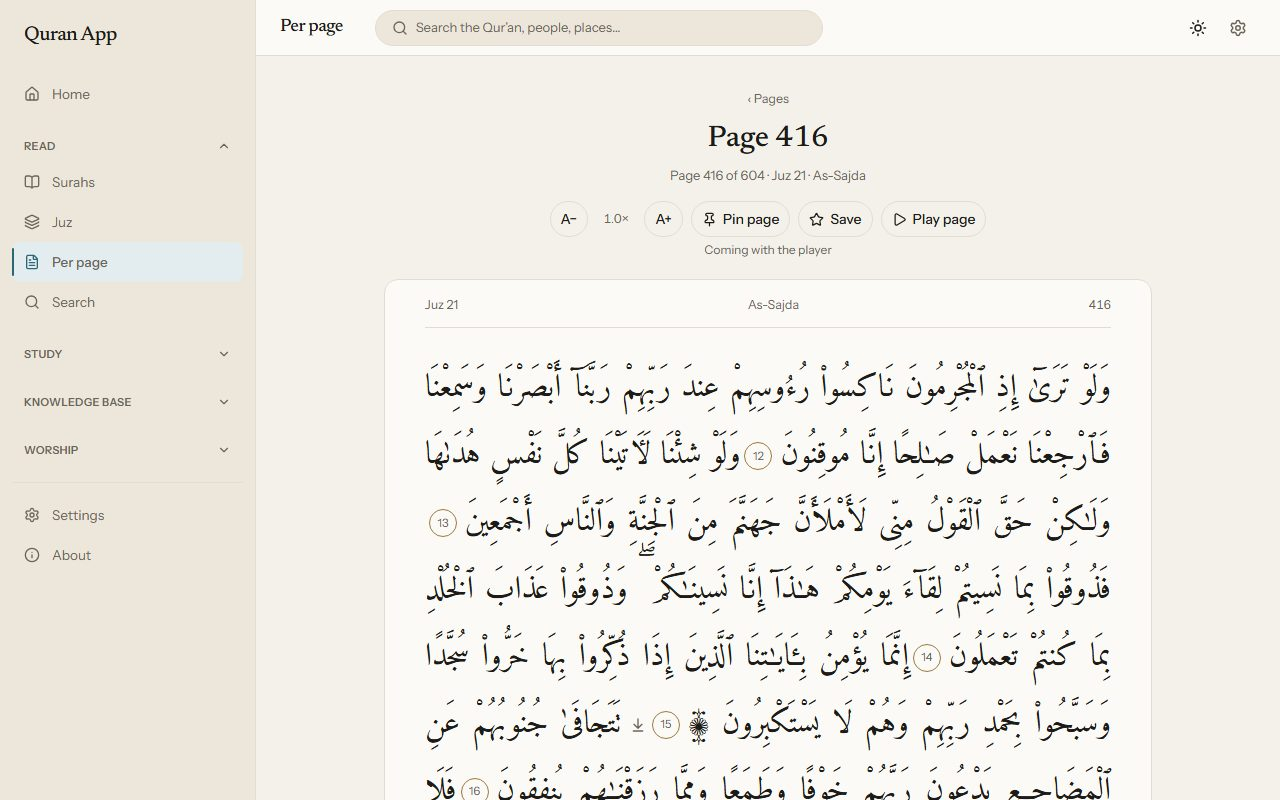
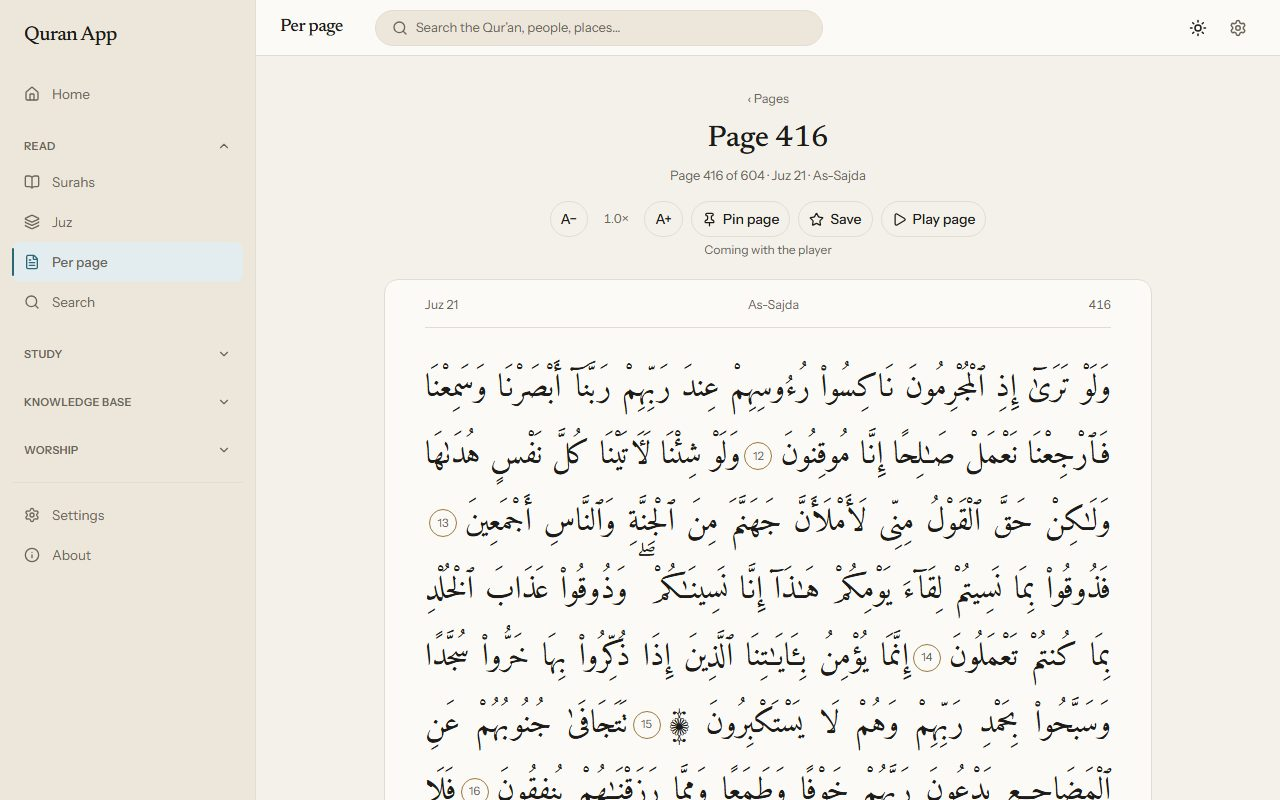
revamp(per-page): remove the duplicate sajda mark (the reader's text carries the sign), real-text tests; docs; Phase 4B plan

Changed region(s): [[0.3438, 0.875, 0.8125, 0.9375]]

diff --git a/revamp-quran/e2e/sajda.spec.ts b/revamp-quran/e2e/sajda.spec.ts
@@ -1,6 +1,8 @@
 // Phase 9B: the verses of prostration in a real browser, on the production build. The 15 references are bundled; the Arabic is the SYNTHETIC
 // mock ("TEST ARABIC 7:206"). Every unmocked request to a real API (including the service's own /sajda endpoint) fails the test; the clock is
 // fixed. See docs/phases/phase-09b-asma-sajda-tasbeeh.md.
+import fs from "node:fs";
+import path from "node:path";
 import { expect, test, type Page } from "@playwright/test";
 import { sajdaRows } from "../app/lib/sajda";
 import { forbidRealApis, freezeClock, idbNames, mockQuranText, mockVerse, readStorage, seed, type VerseMock } from "./mocks";
@@ -119,31 +121,42 @@ test.describe("the text on the device", () => {
   });
 });
 
-test.describe("the sign on the Per-page reader", () => {
-  test("every one of the 15 verses carries the sign on its own page, and only those ayahs do", async ({ page }) => {
-    test.setTimeout(120_000);
-    const byPage = new Map<number, typeof ROWS>();
-    for (const r of ROWS) byPage.set(r.page, [...(byPage.get(r.page) ?? []), r]);
-    for (const [p, list] of byPage) {
-      await page.goto(`/per-page-read?page=${p}`);
-      await expect(page.getByTestId("page-frame")).toBeVisible();
-      const signs = page.getByTestId("sajda-sign");
-      await expect(signs, `page ${p}`).toHaveCount(list.length);
-      for (const r of list) {
-        const s = page.locator(`[data-testid="sajda-sign"][data-surah="${r.surah}"][data-ayah="${r.ayah}"]`);
-        await expect(s, `${r.surah}:${r.ayah}`).toHaveCount(1);
-        await expect(s).toHaveAttribute("aria-label", "Prostration verse");
-        // the sign follows its own ayah's marker
-        await expect(s.locator("xpath=preceding-sibling::*[1]")).toHaveAttribute("data-ayah", String(r.ayah));
-      }
-    }
+test.describe("the sign is the text's own, shown once", () => {
+  // REAL text for surah 32 (a recorded response of the reader's source, tests/fixtures/quranapi-32.json); the other surahs stay synthetic.
+  const SIGN = String.fromCharCode(0x6e9);
+  const real = JSON.parse(fs.readFileSync(path.resolve(process.cwd(), "tests/fixtures/quranapi-32.json"), "utf8")) as { arabic1: string[] };
+  const count = (s: string) => s.split(SIGN).length - 1;
+
+  test("on the Per-page reader, the page that holds 32:15 shows the text's own sign exactly once and adds no mark of its own", async ({ page, context }) => {
+    await context.route(/quranapi\.pages\.dev\/api\/32\.json/, (r) => r.fulfill({ status: 200, contentType: "application/json", headers: { "access-control-allow-origin": "*" }, body: JSON.stringify(real) }));
+    const p = ROWS.find((r) => r.surah === 32 && r.ayah === 15)!.page;
+    await page.goto(`/per-page-read?page=${p}`);
+    await expect(page.getByTestId("page-frame")).toBeVisible();
+    await expect(page.getByTestId("page-text").first()).not.toContainText("TEST ARABIC"); // the real text, not the synthetic one
+    const all = (await page.getByTestId("page-text").allTextContents()).join("");
+    expect(count(all)).toBe(1);
+    // and it is inside ayah 15's text: the text before the marker numbered 15 holds it
+    const first = (await page.getByTestId("page-text").allTextContents()).find((t) => count(t) === 1)!;
+    expect(first.indexOf(SIGN)).toBeLessThan(first.indexOf("15"));
+    await expect(page.locator('[data-testid="verse-mark"][data-ayah="15"]')).toHaveCount(1);
+    await expect(page.locator('[data-testid="page-frame"] svg, [data-testid="page-frame"] [role="img"], [data-testid="sajda-sign"]')).toHaveCount(0); // nothing is added
   });
 
-  test("pages without a verse of prostration show no sign (page 1, 3 and 604)", async ({ page }) => {
+  test("on the Sajda list, 32:15 from the real text shows the sign once, and the row adds no mark", async ({ page, context }) => {
+    await context.route(/quranapi\.pages\.dev\/api\/32\/15\.json/, (r) =>
+      r.fulfill({ status: 200, contentType: "application/json", headers: { "access-control-allow-origin": "*" }, body: JSON.stringify({ ...real, arabic1: real.arabic1[14] }) }),
+    );
+    await open(page);
+    const text = (await row(page, 32, 15).getByTestId("sajda-text").textContent())!;
+    expect(count(text)).toBe(1);
+    await expect(row(page, 32, 15).locator('[role="img"], [data-testid="sajda-sign"]')).toHaveCount(0); // nothing is added to the text
+  });
+
+  test("pages without a verse of prostration have no sign and nothing added (page 1, 3 and 604, synthetic text)", async ({ page }) => {
     for (const p of [1, 3, 604]) {
       await page.goto(`/per-page-read?page=${p}`);
       await expect(page.getByTestId("page-frame")).toBeVisible();
-      await expect(page.getByTestId("sajda-sign")).toHaveCount(0);
+      expect(count((await page.getByTestId("page-text").allTextContents()).join(""))).toBe(0);
     }
   });
 });

diff --git a/revamp-quran/tests/sajda.test.ts b/revamp-quran/tests/sajda.test.ts
@@ -5,9 +5,8 @@ import path from "node:path";
 import { describe, expect, it } from "vitest";
 import { SURAH_ROWS } from "../app/data/quranMeta.generated";
 import { SAJDA_AYAHS } from "../app/data/sajda.generated";
-import { pageSegments } from "../app/lib/pageReader";
-import { AYAH_COUNTS, juzOfAyah, pageOfAyah, TOTAL_PAGES } from "../app/lib/quranMeta";
-import { isSajdaAyah, SAJDA_NO_TEXT, SAJDA_SIGN_LABEL, SAJDA_TEXT_FAILED, SAJDA_TITLE, sajdaCountLine, sajdaRows } from "../app/lib/sajda";
+import { AYAH_COUNTS, juzOfAyah, pageOfAyah } from "../app/lib/quranMeta";
+import { SAJDA_NO_TEXT, SAJDA_TEXT_FAILED, SAJDA_TITLE, sajdaCountLine, sajdaRows } from "../app/lib/sajda";
 import { sajdaBookmarkKey } from "../app/lib/bookmarks";
 
 const root = path.resolve(__dirname, "..");
@@ -49,28 +48,27 @@ describe("the bundled list against the recorded service response", () => {
   });
 });
 
-describe("the sign on the Per-page reader", () => {
-  it("isSajdaAyah is true for the 15 and false for their neighbours", () => {
-    for (const [s, a] of SAJDA_AYAHS) {
-      expect(isSajdaAyah(s, a)).toBe(true);
-      expect(isSajdaAyah(s, a + 1)).toBe(false);
-      if (a > 1) expect(isSajdaAyah(s, a - 1)).toBe(false);
-    }
-    expect(isSajdaAyah(1, 1)).toBe(false);
+describe("the sign: the reader's own text carries it, once, and the Per-page reader adds nothing", () => {
+  // REAL text: tests/fixtures/quranapi-32.json is a recorded response of the source the surah reader uses (surah 32, which holds 32:15).
+  // The prostration character is compared by code point (no Arabic is typed in code).
+  const SIGN = String.fromCharCode(0x6e9);
+  const chapter = JSON.parse(fs.readFileSync(path.join(root, "tests/fixtures/quranapi-32.json"), "utf8")) as { arabic1: string[]; totalAyah: number };
+  it("in the real text of surah 32 the sign is inside ayah 15 and only there, exactly once", () => {
+    expect(chapter.arabic1).toHaveLength(chapter.totalAyah);
+    const withSign = chapter.arabic1.map((t, i) => [i + 1, t.split(SIGN).length - 1] as const).filter(([, n]) => n > 0);
+    expect(withSign).toEqual([[15, 1]]);
+    expect(SAJDA_AYAHS.some(([s, a]) => s === 32 && a === 15)).toBe(true);
   });
-  it("across all 604 pages the sign belongs to exactly the 15 ayahs, each on exactly one page, and the page is the one the data says", () => {
-    const found: string[] = [];
-    for (let p = 1; p <= TOTAL_PAGES; p++) {
-      for (const g of pageSegments(p)!) for (let a = g.from; a <= g.to; a++) if (isSajdaAyah(g.surah, a)) found.push(`${g.surah}:${a}@${p}`);
-    }
-    expect(found).toEqual(sajdaRows().map((r) => `${r.surah}:${r.ayah}@${r.page}`));
+  it("the Per-page frame has no sign of its own (the text is the only source, so the two cannot disagree or double up)", () => {
+    const frame = fs.readFileSync(path.join(root, "app/components/perpage/Frame.vue"), "utf8");
+    expect(frame).not.toMatch(/sajda-sign|arrow-down-to-line|isSajdaAyah/);
   });
 });
 
 describe("no ruling is stated", () => {
   it("the page's words and the library's are plain: no obligatory, recommended, wajib, Hanafi, Ja'fari or marja'", () => {
     const words = /obligatory|recommended|wajib|fard|hanafi|ja.?fari|shafi|marja|scholar/i;
-    for (const s of [SAJDA_TITLE, sajdaCountLine(15), SAJDA_NO_TEXT, SAJDA_TEXT_FAILED, SAJDA_SIGN_LABEL]) expect(s).not.toMatch(words);
+    for (const s of [SAJDA_TITLE, sajdaCountLine(15), SAJDA_NO_TEXT, SAJDA_TEXT_FAILED]) expect(s).not.toMatch(words);
     const page = fs.readFileSync(path.join(root, "app/pages/sajda.vue"), "utf8");
     const template = page.slice(page.indexOf("<template>"));
     expect(template).not.toMatch(words);

diff --git a/revamp-quran/app/components/perpage/Frame.vue b/revamp-quran/app/components/perpage/Frame.vue
@@ -1,8 +1,6 @@
 <script setup lang="ts">
 // The framed text of one page (prototype `mp-frame`): a thin head, then each surah's run of ayahs as flowing, justified Arabic with the
-// reader's ayah markers (and a small sign after a verse of prostration, from the bundled list). A banner and the Bismillah appear only where a surah starts on the page. It is flowing text, not mushaf lines.
-import { isSajdaAyah, SAJDA_SIGN_LABEL } from "~/lib/sajda";
-
+// reader's ayah markers. A verse of prostration carries its own sign inside the text (the data holds it), so nothing is added here. A banner and the Bismillah appear only where a surah starts on the page. It is flowing text, not mushaf lines.
 export interface FrameSegment {
   surah: number;
   from: number;
@@ -41,7 +39,7 @@ defineProps<{
           </template>
         </template>
         <p class="ar page-text mt-4" lang="ar" dir="rtl" data-testid="page-text">
-          <template v-for="(t, i) in g.ayahs" :key="g.from + i">{{ t }}<span class="verse-mark" data-testid="verse-mark" :data-ayah="g.from + i"><span class="sr-only" lang="en" dir="ltr"> ayah </span>{{ g.from + i }}</span><span v-if="isSajdaAyah(g.surah, g.from + i)" class="sajda-sign" data-testid="sajda-sign" :data-surah="g.surah" :data-ayah="g.from + i" role="img" :aria-label="SAJDA_SIGN_LABEL"><Icon name="lucide:arrow-down-to-line" size="16" aria-hidden="true" /></span> </template>
+          <template v-for="(t, i) in g.ayahs" :key="g.from + i">{{ t }}<span class="verse-mark" data-testid="verse-mark" :data-ayah="g.from + i"><span class="sr-only" lang="en" dir="ltr"> ayah </span>{{ g.from + i }}</span> </template>
         </p>
       </section>
     </template>
@@ -52,12 +50,6 @@ defineProps<{
 .page-text {
   text-align: justify;
   overflow-wrap: break-word;
-}
-.sajda-sign {
-  display: inline-flex;
-  vertical-align: middle;
-  margin-inline: 2px 8px;
-  color: var(--ink-2);
 }
 .verse-mark {
   display: inline-flex;

diff --git a/revamp-quran/app/lib/sajda.ts b/revamp-quran/app/lib/sajda.ts
@@ -5,10 +5,6 @@ import { SURAH_ROWS } from "~/data/quranMeta.generated";
 import { SAJDA_AYAHS } from "~/data/sajda.generated";
 import { juzOfAyah, pageOfAyah } from "./quranMeta";
 
-const SET = new Set(SAJDA_AYAHS.map(([s, a]) => `${s}:${a}`));
-/** Whether the ayah is in the list: the Per-page reader marks these. */
-export const isSajdaAyah = (surah: number, ayah: number): boolean => SET.has(`${surah}:${ayah}`);
-
 export interface SajdaRow {
   n: number;
   surah: number;
@@ -35,4 +31,3 @@ export const SAJDA_TITLE = "Verses of prostration";
 export const sajdaCountLine = (n: number): string => `${n} verses, as listed by this app’s data.`;
 export const SAJDA_NO_TEXT = "Connect once to see the text.";
 export const SAJDA_TEXT_FAILED = "Couldn’t load the text.";
-export const SAJDA_SIGN_LABEL = "Prostration verse";

diff --git a/revamp-quran/docs/phases/phase-04b-plan.md b/revamp-quran/docs/phases/phase-04b-plan.md
@@ -1,0 +1,121 @@
+# Phase 4B plan: the full audio player
+
+Status: **plan only, waiting for approval. One input is missing: your phone audio test result** (the prompt had the placeholder `[paste the result here…]` unfilled). Everything below that does not depend on it is ready; the part that does is written as "if it plays / if it fails" so no result is assumed.
+
+Written 2026-10-21 after reading the legacy `useAudioPlayer.ts`, `useReciter.ts`, `useAudioDownload.ts`, the Phase 3 player (`stores/player.ts`, `MiniPlayer.vue`, `lib/surahAudio.ts`), `docs/audio-url-check.md`, `MODULE_BLUEPRINT.md` Module 4, the prototype's player overlay (`playerHTML`), the service worker rules in `nuxt.config.ts`, and live checks of the audio hosts.
+
+**Reviewed 2026-10-21.** Your decisions are applied below (they replace my first split): 4B is the whole-surah player, 4C is per-ayah audio in the reader (with the ayah queue); resume is a new feature shown as a line in the sheet, never automatic; Save audio stays visible but disabled with a reason until Phase 11; no offline-play claim; the audio cache names and the two storage keys stay exactly as they are. The phone audio test result is **still not supplied** (the placeholder was empty again), so section 1 stays conditional.
+
+**Baseline:** `npm run verify` on Node 22 passed on the last pushed commit (566 unit, 428 e2e, exit 0). A new run after the 9B follow-up (duplicate sign removed) is in progress and is reported with the 9B hand-back.
+
+## 1. Your audio test, and what I could check without a phone
+
+**What I checked from this machine today** (not a substitute for a phone):
+
+| Check | Result |
+| --- | --- |
+| Full-surah files (`github.com/The-Quran-Project/Quran-Audio-Chapters/raw/…` → `raw.githubusercontent.com`) | Redirect, then `200`/`206`, **`Content-Type: application/octet-stream` with `X-Content-Type-Options: nosniff`** for the 210 large files (surah 3 reciter 1: 74,406,621 bytes) |
+| Range requests on those files | `206 Partial Content` with `Content-Range`, `Accept-Ranges: bytes`, `Access-Control-Allow-Origin: *` (so seeking in a 74 MB file should work without downloading it) |
+| **Per-ayah audio exists** | Yes. `quranapi.pages.dev/api/<surah>/<ayah>.json` returns `audio` for all five reciters, with a `url` (`the-quran-project.github.io/Quran-Audio/Data/<reciter>/<surah>_<ayah>.mp3`) and an `originalUrl` (everyayah.com). Files are **`audio/mp3`**, small (146 KB for 1:1, 590 KB for 2:255), `206` on Range, CORS `*`. The reciter names are identical to the full-surah list for all five |
+| Desktop Chromium plays the generic-type files | Yes (2026-10-16, `docs/audio-url-check.md`) |
+
+**What is still unknown: iOS Safari, Firefox, and Chrome on Android with the generic-type files.** That is the test I need from you:
+
+1. On the phone preview open `/surah-listing`, press Play on **surah 1** (control: `audio/mpeg`), **surah 3** and **surah 18** (generic type, big), with two different reciters. Try it in Safari on iPhone and in Chrome (and Firefox if you use it) on Android.
+2. Report per browser: plays, does not play, plays but cannot be paused/resumed, or stalls (and for how long before the first sound).
+
+**How I will use the result, only for what actually fails:**
+
+- *Everything plays:* nothing to do; the player needs no workaround.
+- *A browser refuses the generic type* (the media element errors): options in order of cost: (a) a clear message on that browser ("This device cannot play this recording") and the surah's **per-ayah files** as the fallback source (`audio/mp3`, so the same player plays ayah after ayah: needs the queue of 4C); (b) nothing else I recommend: fetching 90 MB into a blob (memory) or proxying through our own server (the app has no backend, and a proxy for 90 MB files is a hosting cost and a new thing to run).
+- *It plays but takes too long to start* (a Range or buffering issue): `preload="metadata"` and a "Buffering…" state; no workaround for the host.
+
+## 2. The legacy player: what it does and omits
+
+`app/composables/useAudioPlayer.ts`: one `Audio` element in Nuxt state; `nowPlaying {type: surah|ayah|name, surahNo, title, subtitle}`; `playbackRate`, `repeatOne`, `autoAdvance` persisted in `quran:audio-prefs:v1`; the resume record `quran:audio-resume:v1` = `{ url, position, nowPlaying }`; Media Session metadata and handlers `play`, `pause`, `seekto`; time labels; `playNextInQueue` (next surah, same reciter, when `autoAdvance` and the track is a surah); `endedAt` for callers that drive their own queue.
+
+| Omits or is wrong | Notes |
+| --- | --- |
+| **The resume record is never used.** `hasResumable` and `resumeLast` exist but nothing in the legacy app calls them | So "resume" has never worked for a user; only the record is written |
+| The position is saved only on `pause` (not while playing, not on closing the tab) | A tab closed mid-playback loses the position |
+| `resumeLast` seeks right after `play()` | Before metadata has loaded the seek can be lost |
+| `play()` has no error handling | A failed file leaves `loading` true and an unhandled rejection; no message |
+| No Media Session `previoustrack`, `nexttrack`, `seekbackward`, `seekforward`, no `setPositionState` | Lock-screen scrubber cannot show position |
+| No buffering state, no seek UI (the legacy mini player has none either), repeat and auto-next have no UI except in Settings | |
+| The resume record stores a raw URL | The blueprint's rule is that reciter URLs resolve by **name** per surah; the URL is only valid for that surah |
+| The per-ayah `type: "ayah"` exists but only Duas/Hifz callers use it with a single URL | |
+
+## 3. What the revamp has today (Phase 3)
+
+`stores/player.ts`: `playSurah({surahNo, title, reciter, rate})`, `pause`, `toggle`; one `Audio` element; `PLAY_ERROR` ("Couldn’t play. Audio needs a connection unless it was downloaded."); `MiniPlayer.vue`: a fixed bar with title, status and a play/pause button, shown once something has been started; reciter URL resolved by name (`lib/surahAudio.ts`); `playbackRate` (and `autoplay` = the legacy `autoAdvance`) are Settings values in `quran:audio-prefs:v1`.
+
+## 4. Scope and the split (decided)
+
+- **4B: the whole-surah player.** One full-surah file at a time: the sheet, seeking, speed, repeat, auto-next surah, resume, reciter switching, Media Session, states and errors.
+- **4C: per-ayah audio.** The play button in the reader's tools row (per-ayah files, which exist), single-file clips such as the Asma-ul-Husna names, and the ayah queue that **Play page** (Per-page), **Listen to this chapter** (Stories) and Hifz need. It is also the per-ayah fallback if your test shows a browser refuses the big files.
+
+## 5. 4B features
+
+- **Seeking:** a labelled slider in the sheet (`aria-label` "Position", `aria-valuetext` "12:34 of 77:08", step 5 s, commits on release/key like the page slider), time labels, and 10-second back and forward buttons. A thin progress line in the mini player (no seeking there). Range requests are supported by the hosts, so seeking a 74 MB file does not download it; the slider is disabled until metadata has loaded.
+- **Speed:** the same `playbackRate` value as Settings (clamped 0.5 to 3, as stored), chips 0.75, 1, 1.25, 1.5, 2 in the sheet; a stored value outside the chips shows as a selected "custom" chip. Writes `quran:audio-prefs:v1` keeping `repeatOne` and unknown fields.
+- **Repeat:** "Repeat this recitation" (the legacy `repeatOne`, in the same key), loops the current track.
+- **Auto-next:** the existing `autoplay` pref (legacy `autoAdvance`): when a full surah ends, the next surah by the same reciter starts (the legacy rule: `type: surah`, up to 114). The switch in the sheet is the same setting as in Settings. Off by default; **nothing ever starts on page load.**
+- **Resume (new; the legacy never used its record):** `quran:audio-resume:v1` in the legacy shape (`url`, `position`, `nowPlaying`, plus an additive `nowPlaying.reciter`). Start small: written when playback is paused or stopped and on `pagehide`, and (optional, decision 8) every 5 seconds while playing. The sheet shows one line, **"Resume where you stopped · Al-Baqara · 12:34"**, with a button; pressing it plays from that point (by surah and reciter name, not the stored URL; the seek happens only after metadata has loaded). Nothing is automatic and nothing plays on page load. *Open question 3 below: the sheet needs an opener when nothing has been played in this visit.*
+- **Previous and Next:** previous or next **surah** (disabled at 1 and 114). Per-ayah audio, the reader's per-ayah play button and the Asma names are **4C**.
+- **Reciter switching:** the sheet's reciter menu (the five reciters); switching restarts the same surah (or ayah) with the new reciter **from the beginning**, because two reciters' files have different timing so a position does not carry over. It also sets the preferred reciter, as the reader's menu already does.
+- **Player sheet:** the prototype's overlay as a bottom sheet on phones and a side panel on desktop (the same `Sheet` the other pages use): Now playing, title and reciter, position slider and times, Previous / Play-Pause / Next, 10 s back and forward, Speed, Reciter, Repeat, "Play the next surah automatically", and a Close button. Opened by tapping the mini player's title (the prototype's `player-open`).
+- **Save audio to device:** the prototype's button is shown in the sheet as a visible, real button with `aria-disabled` and the reason "Saving audio arrives with Downloads" (Phase 11 owns it; the legacy helper fetches the whole file into memory as a blob, a bad idea for 90 MB files on a phone). The sheet and the app make **no claim that audio plays offline**.
+- **Media Session:** metadata (title, artist = reciter, album "Quran App"), `playbackState`, handlers `play`, `pause`, `seekto`, `seekbackward`, `seekforward` (10 s), `previoustrack` and `nexttrack` where Previous and Next apply, and `setPositionState` at most once per second. Whether the lock screen shows them is a device check, not something I can test in a browser.
+
+## 6. Placeholders and which stay disabled
+
+| Placeholder today | 4B |
+| --- | --- |
+| Surah listing and reader "Play surah" (real since Phase 3) | Stay; they open the same player |
+| Reader per-ayah play slot | Stays reserved until **4C** |
+| Asma-ul-Husna "Play" (disabled, "Coming with the player") | Stays disabled until **4C** (a single-file clip, not a surah) |
+| Per-Page "Play page" (disabled) | Stays disabled until **4C** (an ordered list of ayahs) |
+| Stories "Listen to this chapter" (disabled) | Stays disabled until **4C** (passages across surahs) |
+| Hifz | Not rebuilt yet (its own phase) |
+| Sheet "Save audio" | New, visible and disabled with its reason until Phase 11 |
+
+The four disabled Play buttons keep their existing wording ("Coming with the player"); once 4B ships that phrase is no longer true for the whole-surah player, so their reasons are updated to say what is actually missing ("Playing single ayahs arrives soon", wording of ours, flagged).
+
+## 7. Offline
+
+- The service worker already caches audio with `CacheFirst` in `quran-audio-cache` (**the name must stay identical**, 300 entries, 1 year), but only `200` responses are cached, and a media element asks with a `Range` header and gets `206`, which the Cache API cannot store. **So streamed audio is not available offline today, and nothing in 4B changes that.** Serving a cached full file to range requests needs the Workbox range-request plugin and a whole-file fetch: that belongs to Downloads (Phase 11), together with the large-file and storage decisions there.
+- States when audio cannot play: **Loading** ("Loading…"), **Buffering** ("Buffering…", from `waiting`/`stalled`), **Needs a connection** (offline: "Audio needs a connection unless it was downloaded."), **Could not play** (the media element's own error; message plus Try again), **This device cannot play this recording** (only if your test shows a browser refuses the file type), **Not allowed** (a browser blocking `play()` that was not started by a tap, shown as "Tap Play to start").
+- With no connection and a resume record, the mini player still shows the paused item; Play then shows the offline message instead of failing silently.
+
+## 8. Keyboard, screen reader, touch
+
+Native buttons and a native range input; Space and Enter on Play/Pause; arrow keys on the slider; no global or single-key shortcuts (as on the page reader); the sheet traps focus and returns it to the mini player's title; the mini player is a `region` "Audio player"; the status line is a polite live region ("Playing Al-Baqara", "Buffering…", errors); all controls at least 44px; `prefers-reduced-motion` has no animation here anyway. **No autoplay:** nothing plays until a tap or press; a resume only shows the paused item.
+
+## 9. Storage (additive, legacy-compatible)
+
+`quran:audio-prefs:v1` `{ playbackRate, repeatOne, autoAdvance }` (unknown fields kept; `repeatOne` is new to the revamp's UI but already in the legacy key) and `quran:audio-resume:v1` `{ url, position, nowPlaying }` (legacy shape, plus the additive `nowPlaying.reciter`). No new key, no new IndexedDB store, `quran-app-db` never opened.
+
+## 10. Tests
+
+- **Unit** (a fake audio element, no browser): the state machine (loading, playing, paused, buffering, ended, error), repeat, auto-next stopping at 114, the resume writer (throttled, on pause, on pagehide) and reader, resume by name not URL, seek only after metadata, speed and prefs writes keeping unknown fields, Previous/Next (surah) rules, the Media Session handler wiring against a stub, and legacy-shape fixtures through every write.
+- **Browser** (the existing `stubAudio` recorder; no real audio): the mini player and sheet open and close, focus returns, slider and buttons call the element, speed/repeat/auto-next write the keys, the resume line and the opener (decision 3) play only on a tap (and never on load), reciter switch restarts from 0, the four disabled Play buttons and Save audio stay inert with their reasons, error and offline states, 375px, dark mode, 44px targets, no `quran-app-db`.
+- **Real playback, lock-screen controls and the generic-type files can only be checked on a device.** That is your test; I cannot do it.
+
+## 11. Screenshots
+
+1280 and 375, light and dark: the mini player (playing, paused at a resume point, loading, error), the sheet (surah playing, the resume line, first and last surah with disabled Previous/Next, custom speed, Save audio disabled). The prototype overlay beside the revamp sheet.
+
+## 12. Decisions: your answers applied, and my recommendations on the rest
+
+Decided by you: (1) split 4B whole-surah / 4C per-ayah; (2) resume is new, a sheet line, never automatic, never autoplay on load; (3) Save audio disabled with a reason until Phase 11, no offline claim; (4) the audio cache names and `quran:audio-prefs:v1` / `quran:audio-resume:v1` keep their formats exactly.
+
+Open, with my recommendation:
+
+1. **Your phone audio test result.** Still missing. Until it arrives I add no workaround for the generic-type files, as you said; if it does not play somewhere, the plan above lists what to do for that case only.
+2. **Asma-ul-Husna Play and the reader's per-ayah play stay disabled in 4B** (they are 4C), with their reason text updated. Recommended.
+3. **How the sheet is reached after a reload (the one thing your resume answer leaves open).** The mini player exists only once something has played in this visit, so a "Resume where you stopped" line in the sheet has no door. Recommended: when a resume record exists, show the mini player **paused** on the next visit (title, "Paused at 12:34", a Play button), with the sheet behind it; nothing plays until a tap. The alternative is a "Continue listening" row on Home or the Library that opens the sheet. Say which.
+4. **Previous / Next = previous / next surah** (disabled at the ends). Recommended.
+5. **Reciter switch restarts the surah from the beginning** (reciters' files have different timing). Recommended.
+6. **10-second back and forward buttons and the Media Session seek actions.** Recommended.
+7. **The disabled Play buttons' new wording** ("Playing single ayahs arrives soon"): approve, or give your wording.
+8. **Position written while playing (every 5 s)** as well as on pause and `pagehide`, or only on pause as the legacy. Recommended: both (a tab closed while playing otherwise loses the place).

diff --git a/revamp-quran/docs/phases/phase-09b-asma-sajda-tasbeeh.md b/revamp-quran/docs/phases/phase-09b-asma-sajda-tasbeeh.md
@@ -16,7 +16,7 @@
 6. Legacy goals 33 / 99 / 100 and the unnamed custom counter.
 7. The YouTube embed is dropped, with no replacement link.
 8. Vibration with a switch next to the counter, on by default where supported, never while Reduce motion is on.
-9. The sajda sign on the Per-page reader is built as an SVG mark, with a test on the right ayahs (**see the finding below: the text already carries the sign**).
+9. ~~The sajda sign on the Per-page reader as an SVG mark~~ **Changed after review (2026-10-21): the visible SVG mark was removed.** The reader's own text already carries the sign inside exactly the 15 ayahs, so the Per-page reader adds nothing. A test with REAL cached text (surah 32, `tests/fixtures/quranapi-32.json`) confirms the sign appears exactly once on the page that holds 32:15 and in the Sajda row, and that nothing is added.
 Holds: `names.json` imported; only apostrophe typography normalised; the mixed apostrophes and the repeated meanings listed for review; tests for English-text contrast and the search label; a saved `name:<n>` shows in the Library's Names filter; the counter is a real button with a polite count, Space and Enter, and Reset with Undo; the legacy lifetime and cycle shapes tested through each operation with a legacy-shaped fixture.
 
 ## What was built
@@ -28,7 +28,7 @@ Holds: `names.json` imported; only apostrophe typography normalised; the mixed a
 
 ## Findings (please read)
 
-- **The reader's own Arabic already carries the sajda sign.** The `quranapi` text (`arabic1`, the surah reader's source) contains the prostration character (U+06E9) inside exactly these 15 ayahs and in no other ayah of those 14 surahs (checked against the live data today). So the Sajda list, the surah reader and the Per-page reader already show the sign as part of the text, and **the SVG mark built under decision 9 is a second sign next to it** (visible in `docs/design/utilities-compare/state-perpage-sajda-sign-desktop-light.jpg`: the text's own sign, then the ayah marker, then my arrow). The synthetic text in the browser tests has no such character, so the tests could not show this; the real-text screenshots did. This also independently confirms the bundled list of 15. **Recommendation: remove the visible SVG mark** (keep, at most, a screen-reader label), because the text is the better source and the duplicate looks wrong. It is a one-line change in `components/perpage/Frame.vue` plus the e2e test; I left it as approved so you can decide. (The earlier 9A note "the cached surah text has no sajda sign" was about a missing data field; the sign is in the text itself.)
+- **The reader's own Arabic already carries the sajda sign.** The `quranapi` text (`arabic1`, the surah reader's source) contains the prostration character (U+06E9) inside exactly these 15 ayahs and in no other ayah of those 14 surahs (checked against the live data today). So the Sajda list, the surah reader and the Per-page reader already show the sign as part of the text, and **the SVG mark built under decision 9 is a second sign next to it** (it showed in the real-text screenshot as the text's own sign, the ayah marker, then my arrow; the screenshot is regenerated and now shows one sign). The synthetic text in the browser tests has no such character, so the tests could not show this; the real-text screenshots did. This also independently confirms the bundled list of 15. **Resolved on review: the visible SVG mark was removed** (and the label, the helper and their tests), so there is one source of the sign. If the text's own sign ever shows as an empty box on a device, that is a font fix, not a second mark. (The earlier 9A note "the cached surah text has no sajda sign" was about a missing data field; the sign is in the text itself.)
 - **The Sajda service's flags are a ruling.** 4 of 15 are flagged `obligatory` (32:15, 41:38, 53:62, 96:19: exactly the Ja'fari set), 11 `recommended`; the legacy page showed these to everyone. Not carried over (decision 3); recorded in CONTENT_TO_VERIFY.md.
 - **The legacy composable is the test oracle for Tasbeeh.** `tests/tasbeeh.test.ts` loads the real `useTasbeeh.ts` (transpiled in memory) and applies the same 12 operations plus 100 counts to both implementations on a legacy-shaped record that includes a `name-12` counter, an unknown field and an unknown counter; the stored records are equal after every step. The legacy code also accepts and preserves the `name-<n>` counters (and its counter page would show one as a counter named by its id), so a rollback is safe.
 - **A request to `quranapi.pages.dev` from a script needs a browser-style User-Agent** (a bare Python request got HTTP 403). Browsers are unaffected; noted only for anyone scripting the data.
@@ -49,14 +49,18 @@ After prayer (both traditions), any obligation statement, the Hanafi count and n
 
 ## Verification
 
-`npm run verify` on Node 22 (build, lint, 566 unit tests, dev smoke, 428 e2e tests): **passed, exit 0**. The Settings picker test did not fail. Along the way, failed-then-fixed runs were all in new tests (a search term, a hash-opened sheet hiding the page behind a modal, an offline navigation that needs the page code already loaded, a reduced-motion duration); none was a defect in a page.
+`npm run verify` on Node 22 (build, lint, 566 unit tests, dev smoke, 428 e2e tests; 429 after the review change below): **passed, exit 0**. The Settings picker test did not fail. Along the way, failed-then-fixed runs were all in new tests (a search term, a hash-opened sheet hiding the page behind a modal, an offline navigation that needs the page code already loaded, a reduced-motion duration); none was a defect in a page.
 
-- `tests/asma.test.ts` (12), `tests/sajda.test.ts` (9), `tests/tasbeeh.test.ts` (17, including the legacy-code differential).
-- `e2e/asma.spec.ts` (10), `e2e/sajda.spec.ts` (11), `e2e/tasbeeh.spec.ts` (16). Existing tests updated: the Library's name type is "opens today", its pending notice no longer names Asma-ul-Husna, a new Per-page test for the sign.
+- `tests/asma.test.ts` (12), `tests/sajda.test.ts` (9), `tests/tasbeeh.test.ts` (17, including the legacy-code differential; keep it in the suite: it is the strongest rollback guarantee).
+- `e2e/asma.spec.ts` (10), `e2e/sajda.spec.ts` (12), `e2e/tasbeeh.spec.ts` (16). Existing tests updated: the Library's name type is "opens today", its pending notice no longer names Asma-ul-Husna, a new Per-page test for the sign.
 
 ## What is left for you
 
-- Decide the duplicate sign (remove the visible SVG mark: recommended).
 - Review `CONTENT_TO_VERIFY.md` (Tasbeeh, Sajda, Asma sections): the dhikr, the list of 15, the 99 names, the wording of ours.
 - Supply sourced wording if you want obligation statements or After prayer later.
 - Phone checks (counter by touch and vibration on a real device, 375px dark on all three pages, the name sheet) and the still-pending audio and compass checks. Phase 4B (the full player) is the next step that does not wait on content; it depends on your audio test.
+
+## After review (2026-10-21)
+
+- Removed the visible sajda mark from `components/perpage/Frame.vue`, `isSajdaAyah` and `SAJDA_SIGN_LABEL` from `lib/sajda.ts`, and the old sign tests. Added real-text tests: the unit test checks the recorded real surah 32 holds the sign exactly once (in ayah 15) and that the frame has no sign of its own; two browser tests use that real text on the Per-page reader and on the Sajda list. `npm run verify` on Node 22 after these changes (build, lint, 566 unit tests, dev smoke, 429 e2e tests): **passed, exit 0**.
+- The Sajda page stays as the list of the 15. The Asma data points stay as they are (to be corrected, if wanted, in the legacy `names.json` once at cutover, not in the revamp).

diff --git a/revamp-quran/docs/PROGRESS.md b/revamp-quran/docs/PROGRESS.md
@@ -9,7 +9,7 @@ Update this file at the end of every phase.
 | 2 | Settings | Approved 2026-10-16 | [phase-02-settings](phases/phase-02-settings.md), [plan](phases/phase-02-settings-plan.md) | [settings](pages/settings.md) |
 | 3 | Surah listing, Juz, Page | **Done, awaiting review** (2026-10-16) | [phase-03-surah-listing](phases/phase-03-surah-listing.md), [plan](phases/phase-03-surah-listing-plan.md) | [surah-listing](pages/surah-listing.md) |
 | 4A | Surah reader | **Done, awaiting review** (2026-10-16) | [phase-04a-surah-reader](phases/phase-04a-surah-reader.md), [plan](phases/phase-04a-surah-reader-plan.md) | [surah-reader](pages/surah-reader.md) |
-| 4B | Full player (seeking, resume, repeat, auto-next, per-ayah audio, player sheet) | Not started (split from Phase 4, see the 4A plan) | | |
+| 4B | Full player (seeking, resume, repeat, auto-next, per-ayah audio, player sheet) | Plan written 2026-10-21, waiting for the phone audio test result and approval (proposes 4B single track + 4C ayah queue) | [plan](phases/phase-04b-plan.md) | |
 | 5 | Prayer and Qibla | **Done, awaiting review** (2026-10-16) | [phase-05-prayer-qibla](phases/phase-05-prayer-qibla.md), [plan](phases/phase-05-prayer-qibla-plan.md) | [prayer-qibla](pages/prayer-qibla.md) |
 | 6 | Library | **Done, awaiting review** (2026-10-16) | [phase-06-library](phases/phase-06-library.md), [plan](phases/phase-06-library-plan.md) | [library](pages/library.md) |
 | 7A | Prophets & People: directory, Timeline, person page | **Done, awaiting review** (2026-10-20; 277 browser tests; the three relationship entries are a pending decision, see the phase doc) | [phase-07a-people](phases/phase-07a-people.md), [plan](phases/phase-07a-people-plan.md) | [people](pages/people.md), [person](pages/person.md) |
@@ -47,7 +47,7 @@ Update this file at the end of every phase.
 | 3 (done) | The listing uses the reciter preference (by name), the playback speed, the legacy bookmark keys and the reading-progress record; see the phase doc |
 | 4B | The image share card is its own later phase (no prototype screen; plain share is in the reader and on Home); extend `usePlayerStore` (seeking, `quran:audio-resume:v1`, repeat, auto-next from `prefs.autoplay`, per-ayah audio, Media Session); (the surah and juz flags were flipped in 4A; the reader now writes `quran:read-surahs:v1`, which the listing draws); per-ayah play and download go into the tools row of `components/reader/AyahList.vue`; **check the 210 generic-type audio files on real phones first** (`docs/audio-url-check.md`); the reader uses `verseLayout`, `effectiveTranslationLang` (explicit choice, else the legacy reader's text tab) and the tafsir default; playback speed and auto-play are in `prefs` |
 | 15 | Reading goals reads the `dailyLog` the reader writes: since 4A an ayah counts after about 1.5 s on screen (the legacy reader logged only the ayah a pause landed on). **Approved:** goal counts read higher than in the legacy app (about 60% higher for a careful reader in the simulation), so **pace targets may need recalibrating** here. Counts recorded before and after cutover use different rules and are **not merged or converted**; the new rule applies from cutover |
-| 9B (done) | The sajda sign on the Per-page reader is built (an SVG mark on the 15 bundled ayahs). The Library's Names and Sajda verses types open today |
+| 9B (done) | The sajda sign on the Per-page reader is the text's own (the data carries it inside the 15 ayahs); no extra mark. The Library's Names and Sajda verses types open today |
 | 9 (done in 9A) | The Page flag and the listing's "not rebuilt yet" notice are removed (`READERS_READY` is `{ surah, juz }`); the Library's Page slot is filled by Pin page and opens the reader |
 | 5 (done) | The Prayer and Qibla pages, the city entry and the saved-times row (shared with Settings) are built; the Hijri adjustment is applied on the Prayer page (reading the neighbouring cached day) and is still to be consumed by the Ramadan and Calendar pages. **WMM2025 (the declination model) is valid to 2030: replace the coefficients (`scripts/gen-wmm.mjs`, NOAA's next model) before then** |
 | 7 (done in 7B) | Home's second resume row and the Library's Story slot now show whichever is newer: `quran:story-progress:v1` or `quran:persons-study:v1` (one adapter in `useHomeState`) |

diff --git a/revamp-quran/docs/CONTENT_TO_VERIFY.md b/revamp-quran/docs/CONTENT_TO_VERIFY.md
@@ -133,7 +133,7 @@ Everything below appears in `prototype.html` as a placeholder or was typed from 
 - [ ] **Left out (deliberate): any statement of obligation.** The service flags 4 of the 15 (32:15, 41:38, 53:62, 96:19) as `obligatory` and 11 as `recommended`; the legacy page showed those to everyone as red and blue labels. The four are the set the Ja'fari school treats as obligatory, so showing them to all users is a ruling. They are not shown, and nothing says "obligatory", "recommended", "wajib", "Hanafi" or "Ja'fari". Also left out: the Hanafi count of 14 and its note, and the per-tradition explanatory sentences. To add them, supply wording and a source.
 - [ ] **The list itself:** "15 verses, as listed by this app's data." The set of 15 follows one common list (it includes 38:24 and both 22:18 and 22:77); schools differ (the exact verse in Ha-Mim Sajda, the second sajda of Al-Hajj, 38:24). Confirm that you want this list.
 - [ ] Wording of ours: "Verses of prostration", "Connect once to see the text.", "Couldn’t load the text.", "Open in the reader", the sign's label "Prostration verse" (Per-page reader).
-- [ ] **Decide:** the reader's own Arabic already contains the prostration sign inside exactly these 15 ayahs (checked 2026-10-21, which also confirms the list), so the SVG mark built on the Per-page reader duplicates it. Recommended: remove the visible mark. The mark is a small SVG mark (the legacy page printed the prostration character, which the no-typed-Arabic guard forbids in code); a test checks it appears on exactly the 15 ayahs.
+- [x] The sign on the Per-page reader is the text's own: the reader's Arabic contains the prostration sign inside exactly these 15 ayahs (checked 2026-10-21, which also confirms the list), so no second mark is added (the SVG mark built first was removed on review). A test with real surah 32 text confirms it appears once.
 
 **Asma-ul-Husna (Phase 9B)**
 - [x] The prototype's 99 names are not used. The names are the legacy `names.json` (imported, never copied): Arabic, Urdu, transliteration, English, in the legacy order and numbering.

diff --git a/revamp-quran/docs/pages/sajda.md b/revamp-quran/docs/pages/sajda.md
@@ -32,8 +32,7 @@ The Arabic loads one ayah at a time (the same source and cache as the Library's 
 ## Behaviour
 
 - **Save:** the legacy bookmark `sajda:<surah>:<ayah>` (and its added-at time) with Undo. The Library lists it under "Sajda verses" and opens the reader at that ayah.
-- **The text already carries the sign.** The reader's Arabic (`arabic1`) contains the prostration character inside exactly these 15 ayahs (checked on 2026-10-21), so this list, the surah reader and the Per-page reader show it as part of the text.
-- **The sign on the Per-page reader (built, under review):** after each of these 15 ayahs the page reader shows a small mark (an SVG, `aria-label` "Prostration verse"). A test visits the page of each of the 15 and checks the sign is on exactly that ayah and nowhere else; pages without one show none. Because the text carries its own sign, this mark is a duplicate; removing the visible mark is recommended (phase doc).
+- **The sign is the text's own.** The reader's Arabic (`arabic1`) contains the prostration character inside exactly these 15 ayahs (checked 2026-10-21), so this list, the surah reader and the Per-page reader show it as part of the text, once. Nothing is added: the Per-page reader's SVG mark was removed on review. If the sign ever shows as an empty box on a device, that is a font fix, not a second mark.
 
 ## States
 
@@ -49,4 +48,4 @@ Reads: the bundled list, the reader's caches, `quran:bookmarks:v1`. Writes: `qur
 
 ## Tests
 
-`tests/sajda.test.ts` (9) and `e2e/sajda.spec.ts` (11); see `docs/phases/phase-09b-asma-sajda-tasbeeh.md`.
+`tests/sajda.test.ts` (9) and `e2e/sajda.spec.ts` (12); see `docs/phases/phase-09b-asma-sajda-tasbeeh.md`.

diff --git a/revamp-quran/docs/design/utilities-compare/README.md b/revamp-quran/docs/design/utilities-compare/README.md
@@ -22,6 +22,6 @@ Looked at by me: the Tasbeeh desktop light pair, the Asma name sheet at mobile d
 | Asma: a "Saved" chip, a name sheet with "Count this name" | Same, plus Play shown disabled until the player | Phase 4B |
 | (legacy only) a YouTube embed and near-invisible English text | Neither | A third-party page; contrast |
 
-## Not yet decided
+## Resolved on review
 
-`state-perpage-sajda-sign-desktop-light.jpg` shows the sajda sign twice: the text's own sign (the data carries it inside the ayah) and the SVG mark built under decision 9. See the finding in the phase doc; the recommendation is to remove the visible SVG mark.
+`state-perpage-sajda-sign-*.jpg` first showed the sajda sign twice: the text's own sign and an SVG mark added by the revamp. The SVG mark was removed; the images are regenerated with real text and show one sign.
